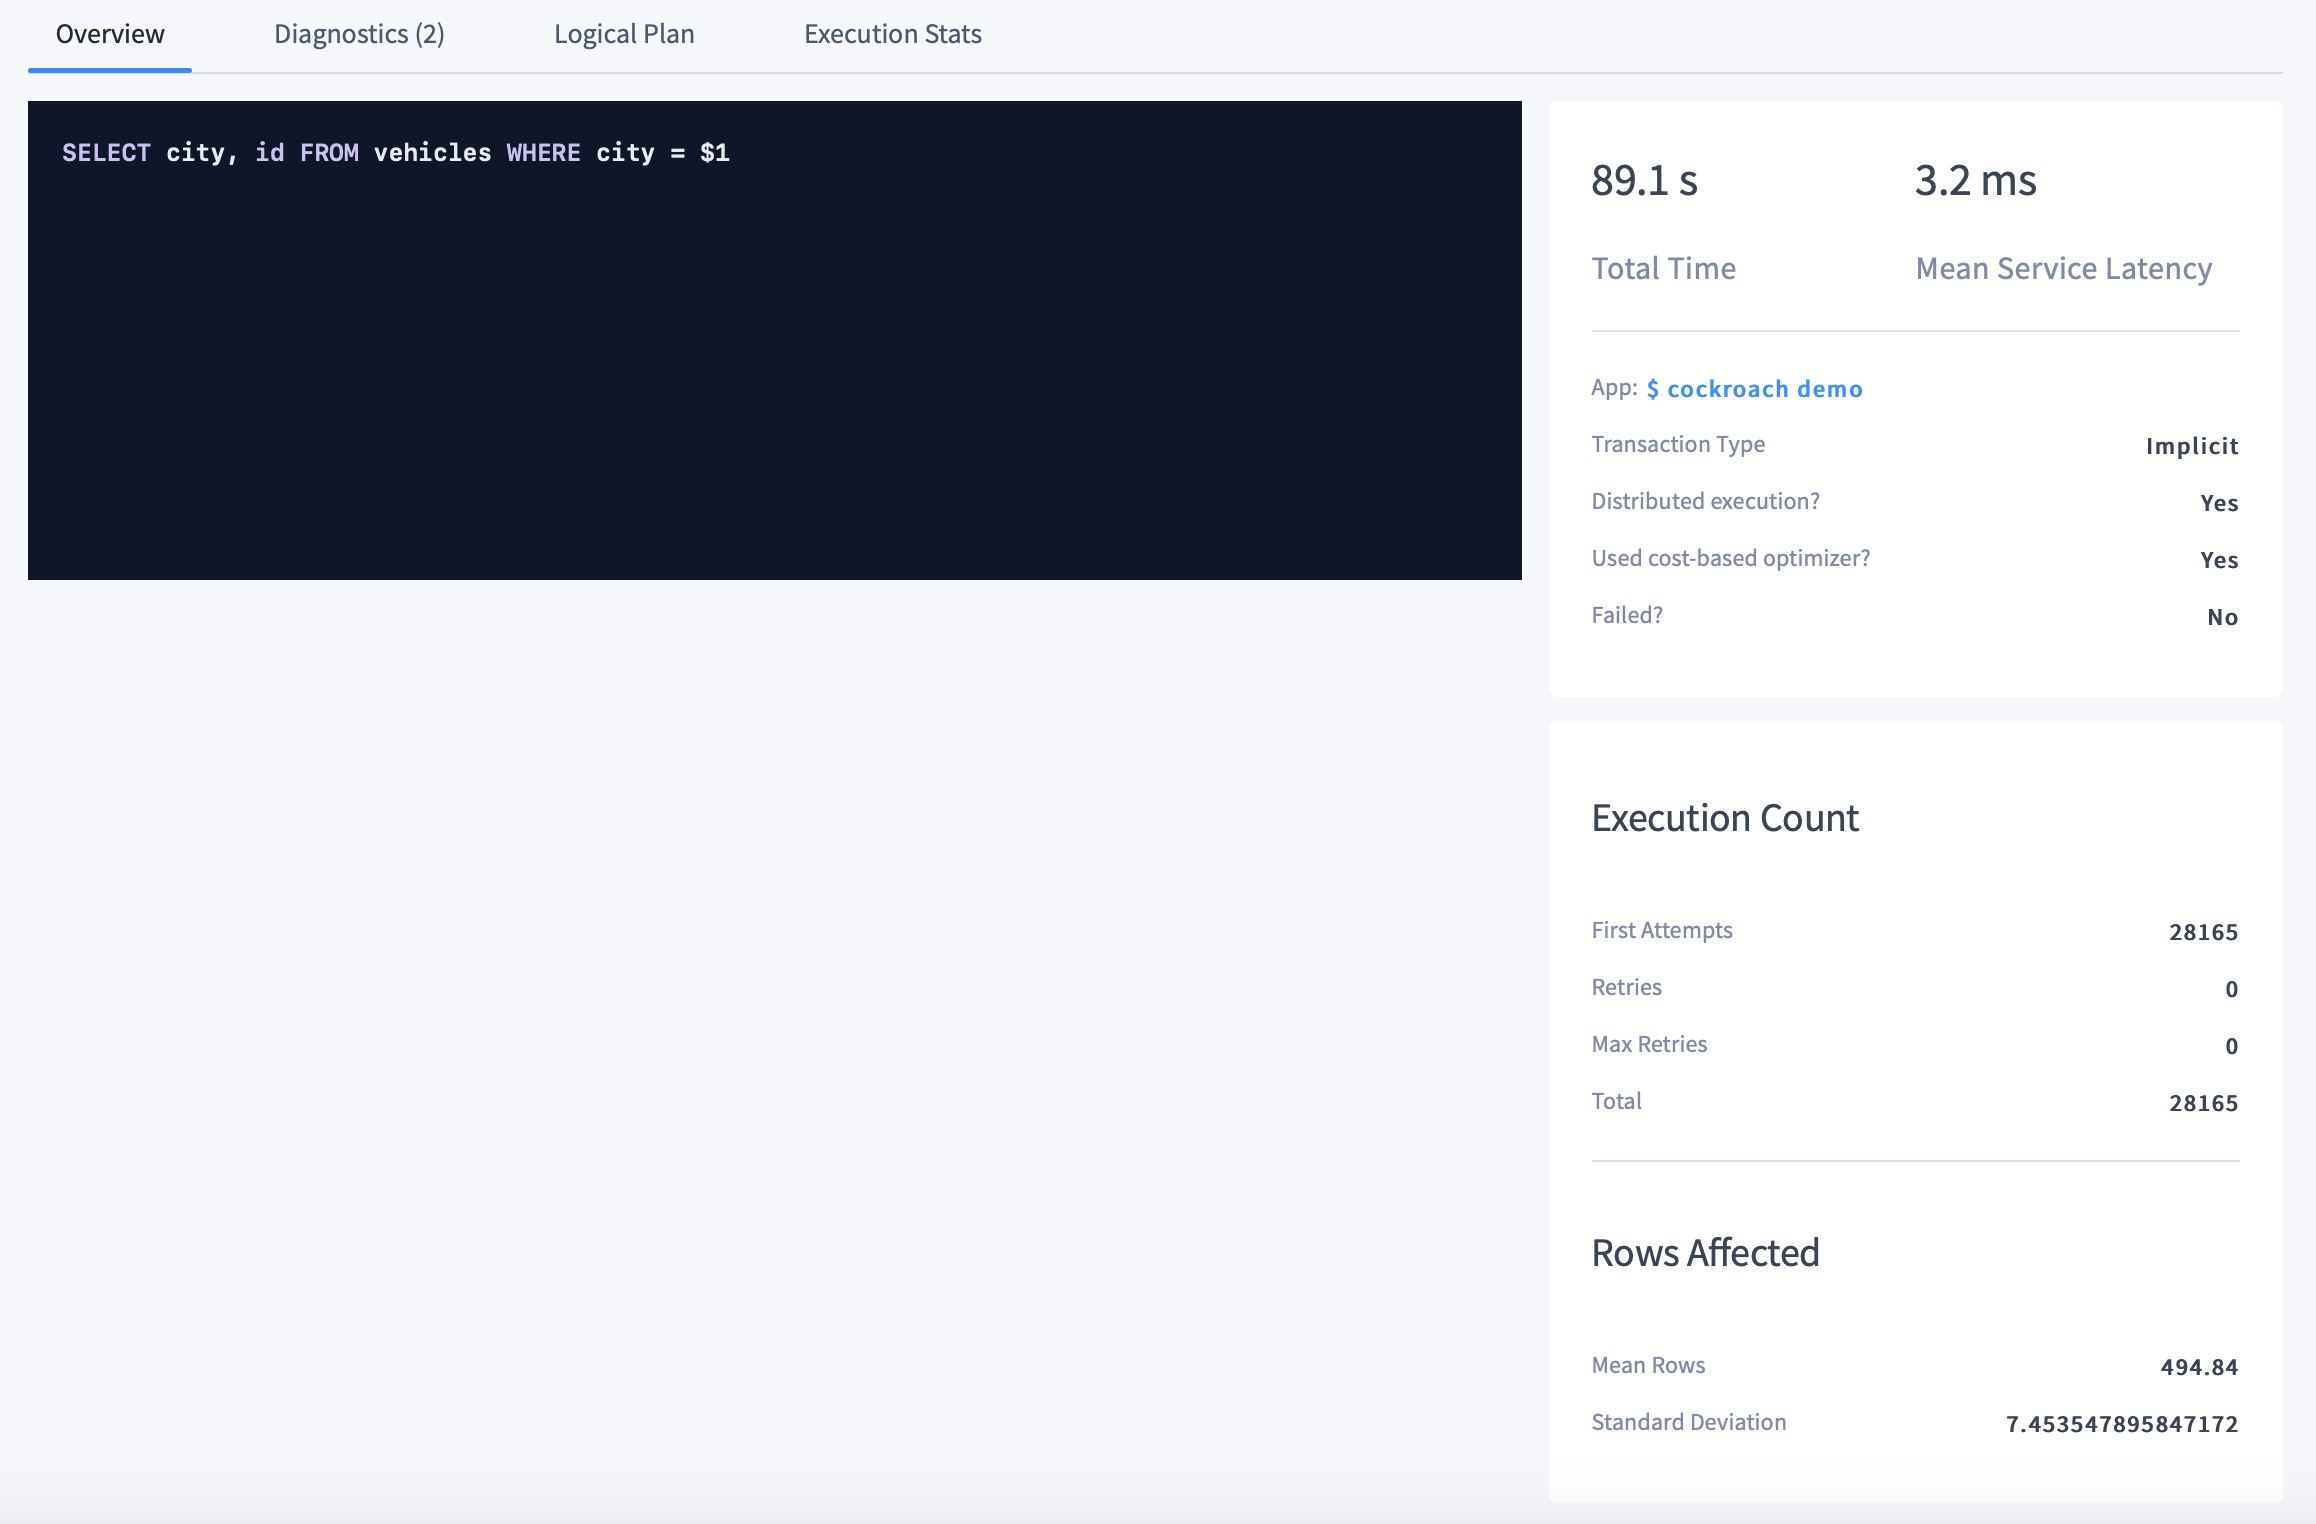
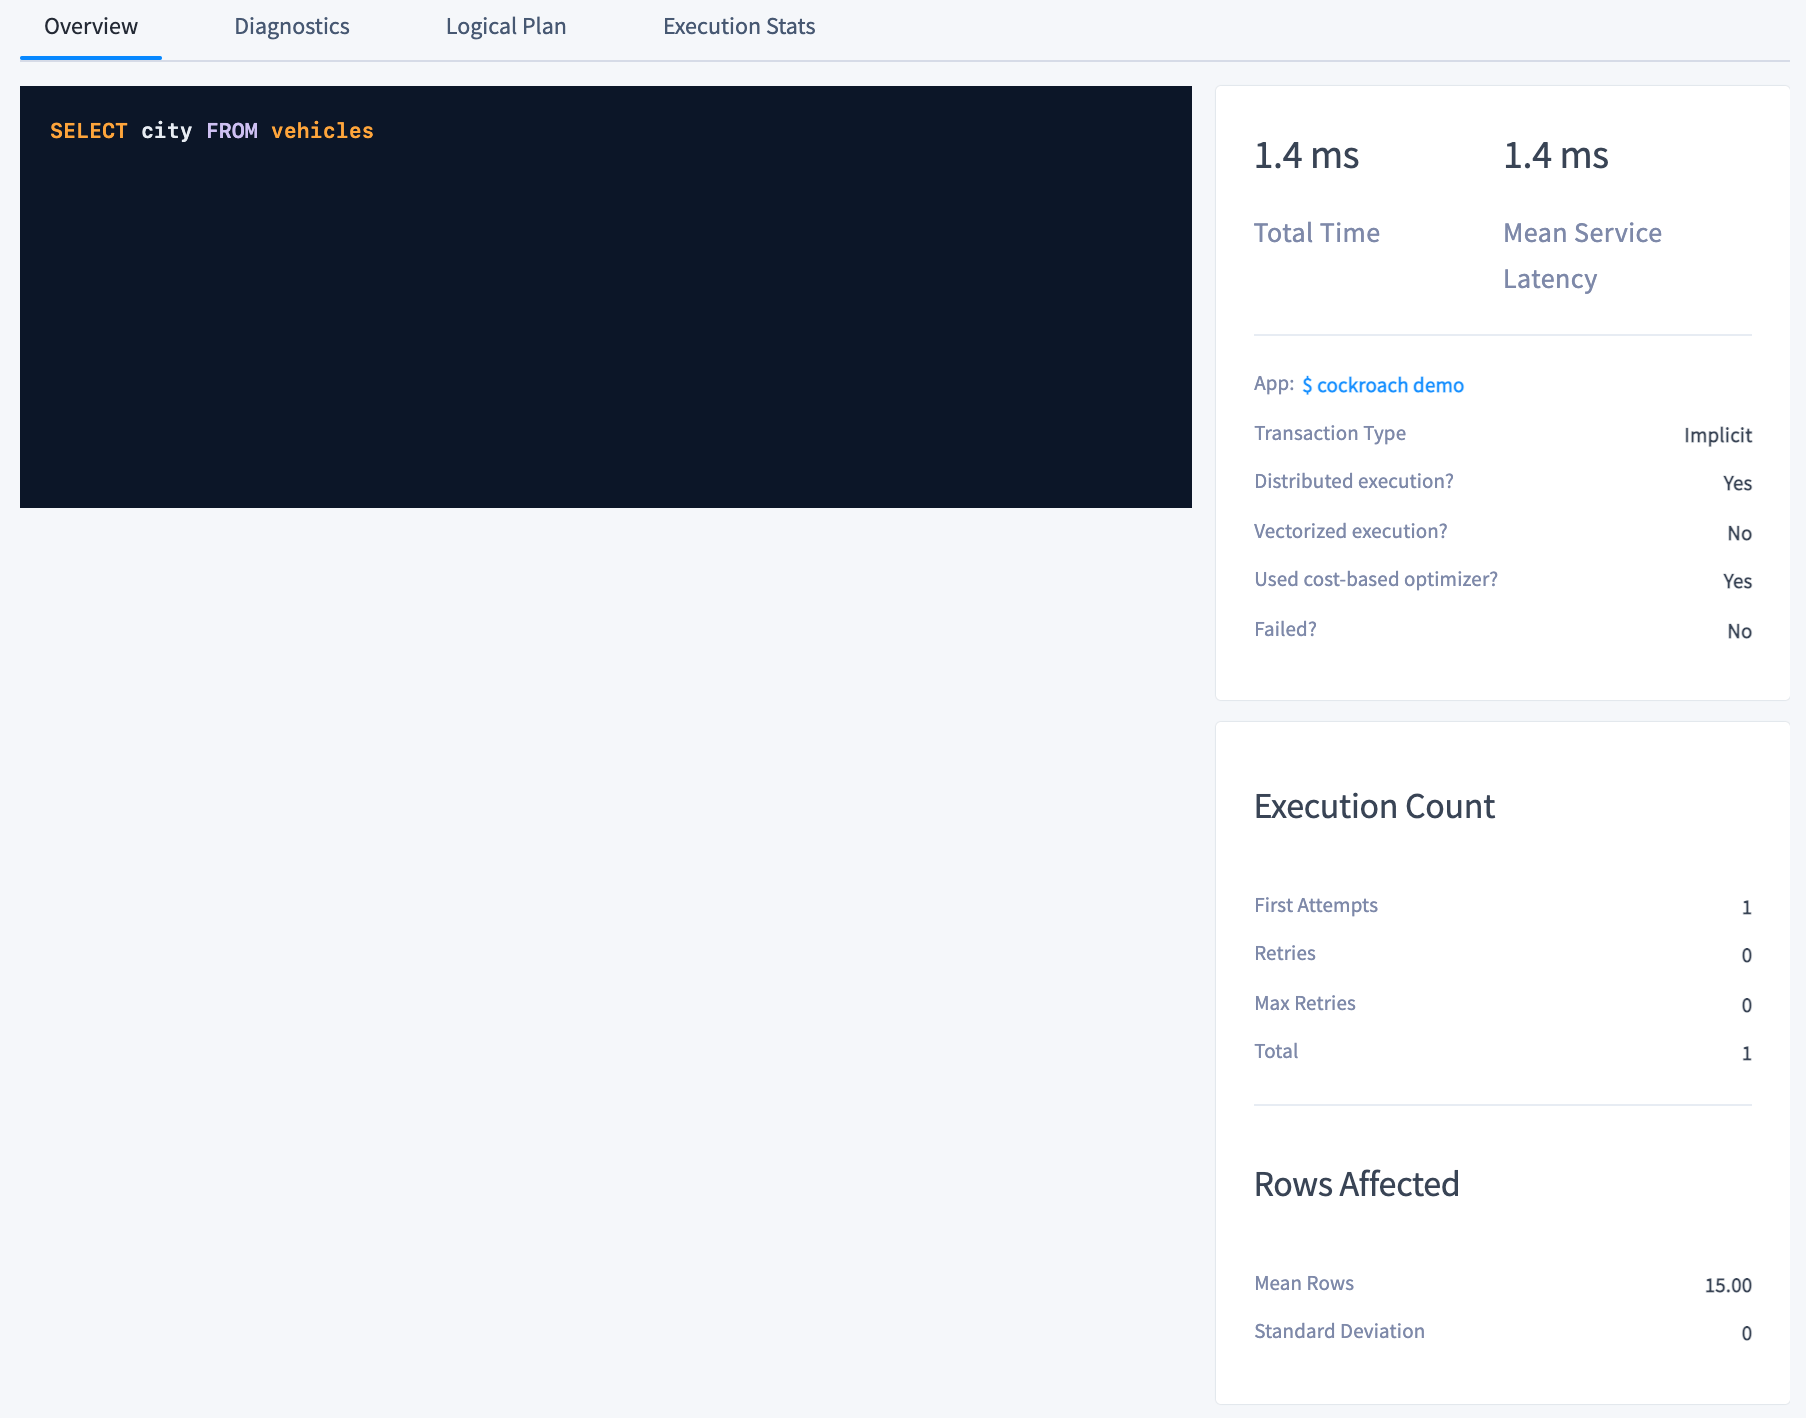
added vectorized execution info and updated relevant screenshot

diff --git a/v20.2/ui-statements-page.md b/v20.2/ui-statements-page.md
@@ -99,6 +99,7 @@ The **Overview** section displays the SQL statement fingerprint and essential st
 - **App** displays the name specified by the [`application_name`](show-vars.html#supported-variables) session setting.
 - **Transaction Type** displays the type of transaction (implicit or explicit).
 - **Distributed execution?** indicates whether the execution was distributed.
+- **Vectorized execution?** indicates whether the transaction used the vectorized execution engine.
 - **Used cost-based optimizer?** indicates whether the execution used the [cost-based optimizer](cost-based-optimizer.html).
 - **Failed?** indicates whether the execution was successful.
 

diff --git a/v21.1/ui-statements-page.md b/v21.1/ui-statements-page.md
@@ -99,6 +99,7 @@ The **Overview** section displays the SQL statement fingerprint and essential st
 - **App** displays the name specified by the [`application_name`](show-vars.html#supported-variables) session setting.
 - **Transaction Type** displays the type of transaction (implicit or explicit).
 - **Distributed execution?** indicates whether the execution was distributed.
+- **Vectorized execution?** indicates whether the transaction used the vectorized execution engine.
 - **Used cost-based optimizer?** indicates whether the execution used the [cost-based optimizer](cost-based-optimizer.html).
 - **Failed?** indicates whether the execution was successful.
 
